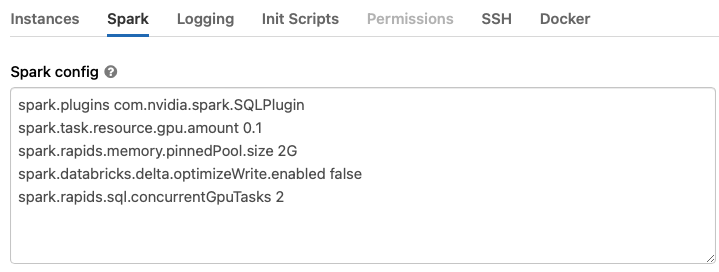
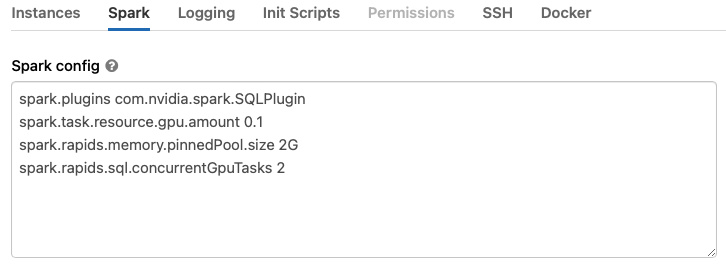
Remove setting spark.databricks.delta.optimizeWrite.enabled false

Changed region(s): [[0.0, 0.209, 1.0, 0.9851], [0.0, 0.0299, 1.0, 0.1493]]

diff --git a/docs/get-started/getting-started-databricks.md b/docs/get-started/getting-started-databricks.md
@@ -114,14 +114,11 @@ cluster.
     like the CPU side.  Having the value smaller is fine as well.
     Note: Please remove the `spark.task.resource.gpu.amount` config for a single-node Databricks 
     cluster because Spark local mode does not support GPU scheduling.
-
-	The plugin does not work with the Databricks `spark.databricks.delta.optimizeWrite` option.
-
+   
     ```bash
     spark.plugins com.nvidia.spark.SQLPlugin
     spark.task.resource.gpu.amount 0.1
     spark.rapids.memory.pinnedPool.size 2G
-    spark.databricks.delta.optimizeWrite.enabled false
     spark.rapids.sql.concurrentGpuTasks 2
     ```
 
